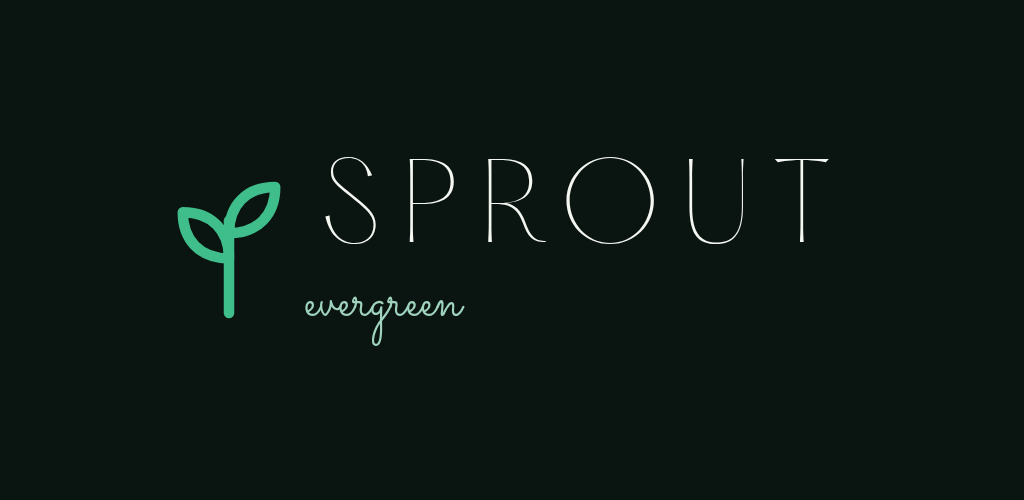
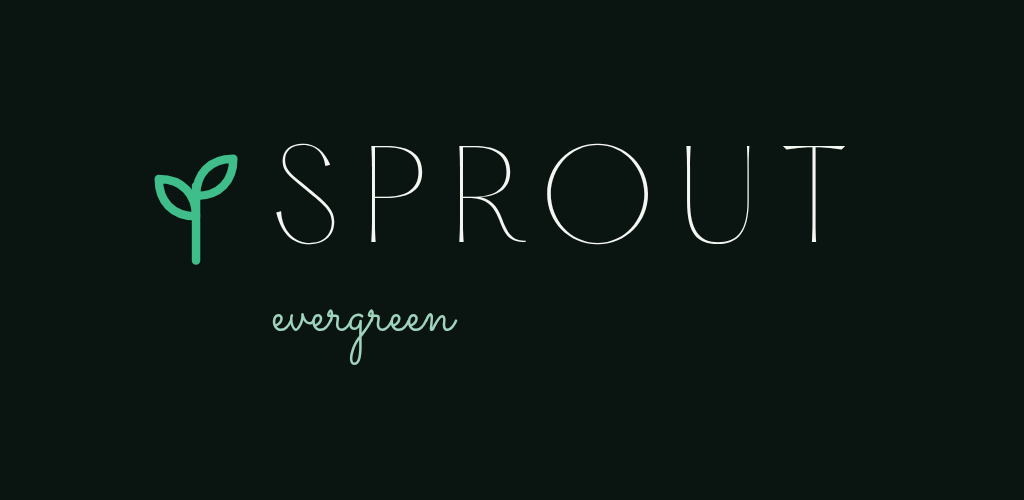
Put the site's lockup on the Play feature graphic
The feature graphic and sproutevergreen.com were drawing the same
lockup two different ways, and the graphic had the version the site
had already corrected. Anyone arriving from Play met one arrangement
and the CTA led to another.

Three differences, each of them the wrong answer:

The mark was centred on the whole two-line block, so it floated
between SPROUT and evergreen instead of sitting beside the wordmark.
Its viewBox was 22 4 56 100, which is not the mark's extent — the
paths span y 24..84 but the 5-unit stroke is centred on them, so the
ink reaches 21.5..86.5 and 24 20 52 68 is the box that holds it. And a
text-indent cancelled the gap that tracking leaves after the last
letter, which is a correction for a centred wordmark; left-aligned
there is nothing to cancel and it pushed SPROUT out of line with the
script beneath.

Every measurement now derives from one --wm, as on the site, so the
mark cannot drift from the wordmark again. --wm is 120px here against
the site's clamp, which keeps the lockup the same weight on the canvas
as the old graphic while carrying the corrected geometry.

Sacramento is self-hosted now rather than fetched from Google Fonts.
The graphic could not be regenerated offline, and a failed fetch falls
back to a system cursive silently — a wrong wordmark with nothing to
say so. The header comment says to serve over http for the same
reason: on file:// the relative font paths are blocked and it renders
in Times.
[…]

diff --git a/native/store-assets/feature-graphic.html b/native/store-assets/feature-graphic.html
@@ -4,26 +4,54 @@
 <meta charset="utf-8">
 <title>Sprout — Play feature graphic</title>
 <!--
-  The source of play-feature-graphic-1024x500.png. Open it and screenshot the
-  page at exactly 1024x500 to regenerate:
+  The source of play-feature-graphic-1024x500.png. Regenerate with:
 
-    chromium --headless --window-size=1024,500 --force-device-scale-factor=1 \
-      --screenshot=play-feature-graphic-1024x500.png feature-graphic.html
+    node .claude/serve.js &
+    chromium --headless --no-sandbox --disable-gpu --hide-scrollbars \
+      --window-size=1024,500 --force-device-scale-factor=1 \
+      --screenshot=play-feature-graphic-1024x500.png \
+      http://127.0.0.1:8787/native/store-assets/feature-graphic.html
 
-  It is a page rather than a drawing because the lockup is type, and the two
-  faces are the app's own: Hatton is loaded straight out of css/fonts, and
-  Sacramento from the same Google Fonts the app uses. Redrawing the wordmark
-  by hand in an image editor is how a wordmark drifts from the product.
+  Over http rather than file://, because the faces are loaded by relative
+  path and a file:// origin blocks them silently — the graphic renders in
+  Times and nothing says so.
+
+  It is a page rather than a drawing because the lockup is type, and both
+  faces are the app's own. Redrawing the wordmark by hand in an image editor
+  is how a wordmark drifts from the product.
+
+  The geometry is the one on sproutevergreen.com, derived from a single
+  --wm and reproduced here rather than reinvented, so the graphic Play
+  shows and the page the CTA leads to are the same lockup. The first pass
+  differed in three ways and each was wrong:
+
+    - the mark was centred on the whole two-line block, so it floated
+      between the lines instead of sitting beside SPROUT;
+    - its viewBox was 22 4 56 100, which is not the mark's extent. The
+      paths span y 24..84 but the 5-unit stroke is centred on them, so the
+      ink reaches 21.5..86.5 — 24 20 52 68 is the box that holds it and
+      nothing else;
+    - a text-indent cancelled the trailing tracking gap. That correction is
+      for a *centred* wordmark; left-aligned there is nothing to cancel and
+      it pushed SPROUT out of line with the script beneath.
 -->
-<link rel="preconnect" href="https://fonts.googleapis.com">
-<link rel="preconnect" href="https://fonts.gstatic.com" crossorigin>
-<link rel="stylesheet" href="https://fonts.googleapis.com/css2?family=Sacramento&display=swap">
 <style>
+  /* Self-hosted, like everything else. This used to pull Sacramento from
+     Google Fonts, which meant the graphic could not be regenerated offline
+     and would fall back to a system cursive without erroring. */
   @font-face {
     font-family: 'PP Hatton';
     src: url('../../css/fonts/hatton-ultralight.woff2') format('woff2');
     font-weight: 200;
+    font-display: block;
   }
+  @font-face {
+    font-family: 'Sacramento';
+    src: url('../../css/fonts/sacramento-400.woff2') format('woff2');
+    font-weight: 400;
+    font-display: block;
+  }
+
   * { margin: 0; padding: 0; box-sizing: border-box; }
   html, body { width: 1024px; height: 500px; overflow: hidden; }
   body {
@@ -32,54 +60,57 @@
     align-items: center;
     justify-content: center;
   }
-  /* Play crops this graphic on some surfaces, so the lockup stays centred
-     and well inside the edges rather than filling the canvas. */
-  .lock { display: flex; align-items: center; gap: 10px; }
-  .mark { width: 118px; height: 210px; flex: none; }
-  .mark svg { width: 100%; height: 100%; display: block; }
-  .words { display: flex; flex-direction: column; align-items: flex-start; }
-  /* text-indent replaces the gap the tracking leaves after the last letter,
-     so the word is optically centred on its own box. Same correction the
-     splash makes. */
-  .wordmark {
-    font-family: 'PP Hatton', serif;
+
+  /* Play crops this on some surfaces, so the lockup stays centred and well
+     inside the edges rather than filling the canvas. One variable drives
+     every measurement, so the mark cannot drift from the wordmark. */
+  .lockup {
+    --wm: 120px;
+    --mk: calc(var(--wm) * 0.96);
+    /* 52/68, the cropped viewBox's own aspect. Declared once so the mark's
+       width and the script's indent cannot disagree. */
+    --mkw: calc(var(--mk) * 0.7647);
+    --gap: calc(var(--wm) * 0.26);
+  }
+  /* The mark shares a row with the wordmark alone, which is what puts it
+     beside SPROUT rather than between the two lines. */
+  .wm-row { display: flex; align-items: center; gap: var(--gap); }
+  .m { width: var(--mkw); height: var(--mk); color: #3FBE8B; flex: none; }
+  .m svg { width: 100%; height: 100%; display: block; }
+  .word {
+    font-family: 'PP Hatton', Didot, 'Times New Roman', serif;
     font-weight: 200;
-    font-size: 104px;
-    letter-spacing: 0.22em;
-    text-indent: 0.22em;
+    font-size: var(--wm);
+    letter-spacing: 0.2em;
     text-transform: uppercase;
-    color: #F3F6F1;
     line-height: 1;
+    color: #F3F6F1;
   }
   .script {
     font-family: 'Sacramento', cursive;
-    font-size: 58px;
+    font-size: calc(var(--wm) * 0.56);
     color: #9FD3BE;
-    margin-top: 10px;
-    padding-left: 6px;
-    /* Descenders sit below the line box in this face. */
-    padding-bottom: 0.12em;
     line-height: 1;
+    margin-top: calc(var(--wm) * 0.12);
+    /* Hangs under SPROUT, not under the mark. */
+    padding-left: calc(var(--mkw) + var(--gap));
   }
 </style>
 </head>
 <body>
-  <div class="lock">
-    <!-- The viewBox is cropped to the mark's own extent (x 28..72, y 24..84)
-         rather than the full 100 square, so the gap to the wordmark is the
-         gap set above and not a box full of empty space. -->
-    <div class="mark">
-      <svg viewBox="22 4 56 100" fill="none" stroke="#3FBE8B" stroke-width="5"
-           stroke-linecap="round" stroke-linejoin="round" role="img" aria-label="Sprout">
-        <path d="M50 84V40"/>
-        <path d="M50 58C36 58 28 49 28 36c14 0 22 9 22 22Z"/>
-        <path d="M50 46c14 0 22-9 22-22-14 0-22 9-22 22Z"/>
-      </svg>
+  <div class="lockup">
+    <div class="wm-row">
+      <span class="m">
+        <svg viewBox="24 20 52 68" fill="none" stroke="currentColor" stroke-width="5"
+             stroke-linecap="round" stroke-linejoin="round" role="img" aria-label="Sprout">
+          <path d="M50 84V40"/>
+          <path d="M50 58C36 58 28 49 28 36c14 0 22 9 22 22Z"/>
+          <path d="M50 46c14 0 22-9 22-22-14 0-22 9-22 22Z"/>
+        </svg>
+      </span>
+      <div class="word">Sprout</div>
     </div>
-    <div class="words">
-      <div class="wordmark">Sprout</div>
-      <div class="script">evergreen</div>
-    </div>
+    <div class="script">evergreen</div>
   </div>
 </body>
 </html>
